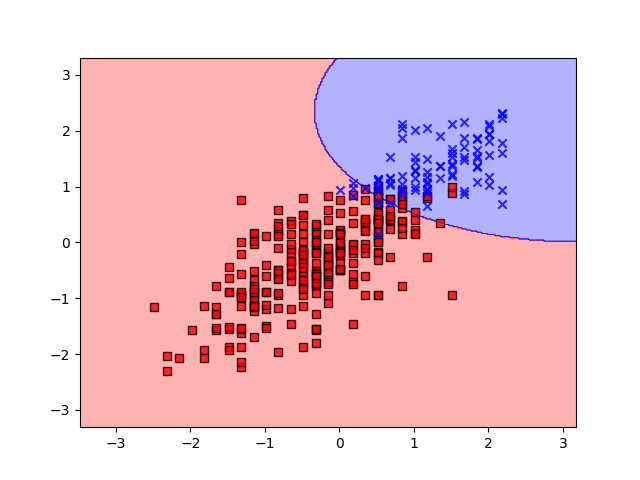
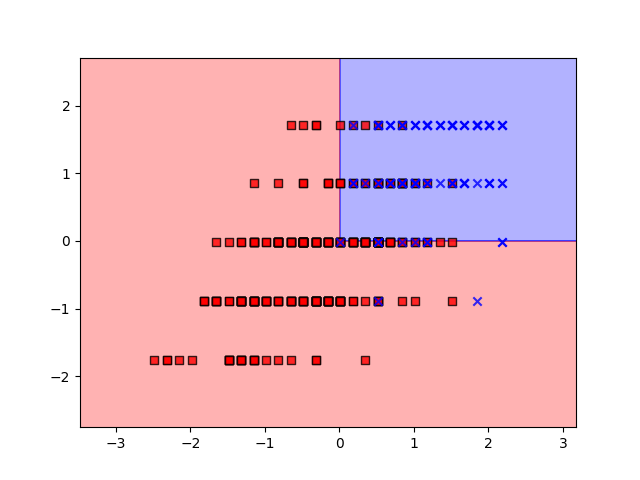
used all the features for nb, created bernoulli classifier

diff --git a/naive_bayes.py b/naive_bayes.py
@@ -8,8 +8,8 @@ import pandas as pd
 import matplotlib.pyplot as plt 
 from matplotlib.colors import ListedColormap
 import tensorflow as tf
-from sklearn.preprocessing import StandardScaler
-from sklearn.naive_bayes import GaussianNB
+from sklearn.preprocessing import StandardScaler, RobustScaler, Normalizer, PowerTransformer
+from sklearn.naive_bayes import GaussianNB, BernoulliNB
 from sklearn.metrics import accuracy_score
 from sklearn.model_selection import train_test_split
 from sklearn import model_selection
@@ -65,8 +65,14 @@ df.dropna(inplace=True)
 
 df.columns = ["No", "GRE", "TOEFL", "UR", "SOP", "LOR", "CGPA", "RES", "CoA", "RACE", "SES"]
 
+df_ohe = pd.get_dummies(df['RACE'])
+df = df[[i for i in list(df.columns) if i not in ['No', 'RACE']]]
+df.dropna(inplace=True)
+for race, column in zip(['Asian', 'african american', 'latinx', 'white'], df_ohe.columns):
+    df.insert(len(df.columns), race, df_ohe[race])
 
-X = df[['GRE', 'TOEFL', 'CGPA']]
+
+X = df[[i for i in list(df.columns) if i != 'CoA']]
 y = df['CoA']
 
 X_train, X_test, y_train, y_test = train_test_split(X, y, test_size = 0.2, random_state=1)
@@ -84,41 +90,43 @@ ty_train=np.array(ty_train)
 ty_test=[1 if CoA > 0.82 else 0 for CoA in y_test] #learned from internet
 ty_test=np.array(ty_test)
 
-nb = GaussianNB()
-nb.fit(X_train_std, ty_train)
-y_pred = nb.predict(X_test_std)
+#nb = GaussianNB()
+#nb = MultinomialNB()
+#nb = ComplementNB()
+#nb = BernoulliNB()
+#nb = CategoricalNB()
+for model in [GaussianNB, BernoulliNB]:
+    print()
+    print(model)
+    nb = model()
+    nb.fit(X_train_std, ty_train)
+    y_pred = nb.predict(X_test_std)
 
 
-X_combined_std = np.vstack((X_train_std[:, 1:], X_test_std[:, 1:]))
-y_combined = np.hstack((ty_train, ty_test))
-plot_decision_regions(X=X_combined_std, y=y_combined, classifier=GaussianNB())
-plt.savefig("nb.png")
-plt.show()
 
+    #Model Performance
+    # #setting performance parameters
+    kfold = model_selection.KFold(n_splits=10)
+    #calling the cross validation function
+    cv_results = model_selection.cross_val_score(model(), X_train_std, ty_train, cv=kfold, scoring='accuracy')
+    #displaying the mean and standard deviation of the prediction
+    print("%s: %f %s: (%f)" % ('Naive Bayes accuracy', cv_results.mean(), '\nNaive Bayes StdDev', cv_results.std()))
+    print()
+    #calling the cross validation function
+    cv_results = model_selection.cross_val_score(model(), X_train_std, ty_train, cv=kfold, scoring='precision')
+    #displaying the mean and standard deviation of the prediction
+    print("%s: %f %s: (%f)" % ('Naive Bayes precision', cv_results.mean(), '\nNaive Bayes StdDev', cv_results.std()))
+    print()
+    #calling the cross validation function
+    cv_results = model_selection.cross_val_score(model(), X_train_std, ty_train, cv=kfold, scoring='recall')
+    #displaying the mean and standard deviation of the prediction
+    print("%s: %f %s: (%f)" % ('Naive Bayes recall', cv_results.mean(), '\nNaive Bayes StdDev', cv_results.std()))
 
-#Model Performance
-# #setting performance parameters
-kfold = model_selection.KFold(n_splits=10)
-#calling the cross validation function
-cv_results = model_selection.cross_val_score(GaussianNB(), X_train_std, ty_train, cv=kfold, scoring='accuracy')
-#displaying the mean and standard deviation of the prediction
-print("%s: %f %s: (%f)" % ('Naive Bayes accuracy', cv_results.mean(), '\nNaive Bayes StdDev', cv_results.std()))
-print()
-#calling the cross validation function
-cv_results = model_selection.cross_val_score(GaussianNB(), X_train_std, ty_train, cv=kfold, scoring='precision')
-#displaying the mean and standard deviation of the prediction
-print("%s: %f %s: (%f)" % ('Naive Bayes precision', cv_results.mean(), '\nNaive Bayes StdDev', cv_results.std()))
-print()
-#calling the cross validation function
-cv_results = model_selection.cross_val_score(GaussianNB(), X_train_std, ty_train, cv=kfold, scoring='recall')
-#displaying the mean and standard deviation of the prediction
-print("%s: %f %s: (%f)" % ('Naive Bayes recall', cv_results.mean(), '\nNaive Bayes StdDev', cv_results.std()))
-
-print()
-#calling the cross validation function
-cv_results = model_selection.cross_val_score(GaussianNB(), X_train_std, ty_train, cv=kfold, scoring='f1')
-#displaying the mean and standard deviation of the prediction
-print("%s: %f %s: (%f)" % ('Naive Bayes F1', cv_results.mean(), '\nNaive Bayes StdDev', cv_results.std()))
+    print()
+    #calling the cross validation function
+    cv_results = model_selection.cross_val_score(model(), X_train_std, ty_train, cv=kfold, scoring='f1')
+    #displaying the mean and standard deviation of the prediction
+    print("%s: %f %s: (%f)" % ('Naive Bayes F1', cv_results.mean(), '\nNaive Bayes StdDev', cv_results.std()))
 # Naive Bayes accuracy: 0.926108 
 # Naive Bayes StdDev: (0.048931)
 
@@ -130,3 +138,9 @@ print("%s: %f %s: (%f)" % ('Naive Bayes F1', cv_results.mean(), '\nNaive Bayes S
 
 # Naive Bayes F1: 0.817904 
 # Naive Bayes StdDev: (0.139074)
+
+X_combined_std = np.vstack((X_train_std[:, 1:3], X_test_std[:, 1:3]))
+y_combined = np.hstack((ty_train, ty_test))
+plot_decision_regions(X=X_combined_std, y=y_combined, classifier=type(nb)())
+plt.savefig("nb.png")
+plt.show()
